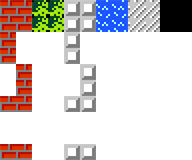
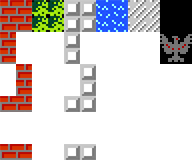
add a base

Changed region(s): [[0.8125, 0.1875, 1.0, 0.4062]]

diff --git a/Map.cpp b/Map.cpp
@@ -50,6 +50,7 @@ void Map::CreateMap(std:: vector<String> Diagram, int i, int j) {
     if (Diagram[i][j] == '8') map_sprite.setTextureRect(IntRect( 64,  96, 32, 32));
     if (Diagram[i][j] == '?') map_sprite.setTextureRect(IntRect(160,   0, 32, 32));
     if (Diagram[i][j] == '@') map_sprite.setTextureRect(IntRect(160,   0, 32, 32));
+    if (Diagram[i][j] == 'G') map_sprite.setTextureRect(IntRect(160,   32, 32, 32));
     map_sprite.setPosition(j * 32, i * 32);//по сути раскидывает квадратики, превращая в карту. то есть задает каждому из них позицию. если убрать, то вся карта нарисуется в одном квадрате 32*32 и мы увидим один квадрат
 
 }

diff --git a/Map.h b/Map.h
@@ -49,7 +49,7 @@ private:
             "F4F4F4F4F4F4F@",
             "F4F4F3F3F4F4F@",
             "F4F4F?1?F4F4F@",
-            "FFFFF0F2FFFFF@",
+            "FFFFF0G2FFFFF@",
     };
     std::vector<String> TileMap = {
             "FFFFFFFFFFFFF@",
